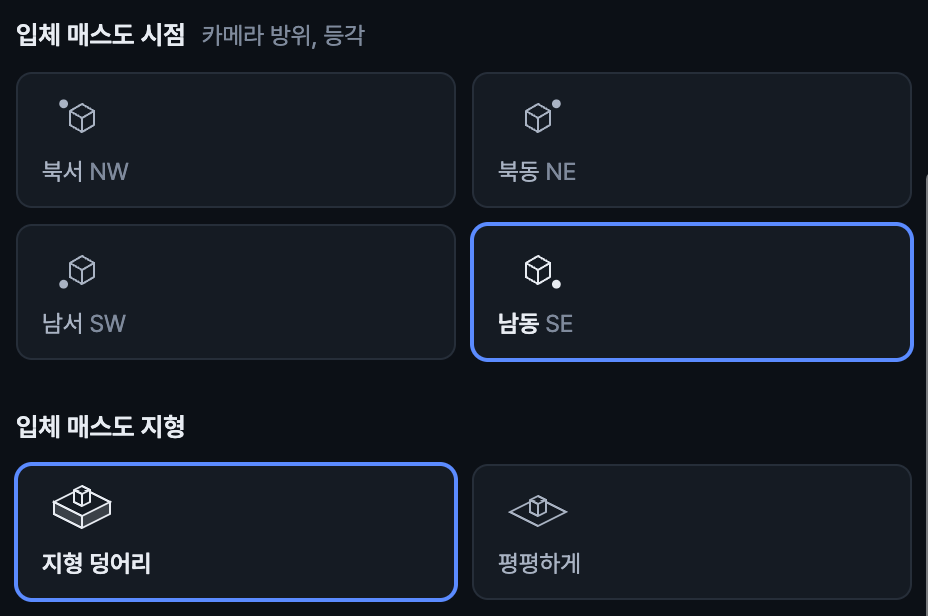
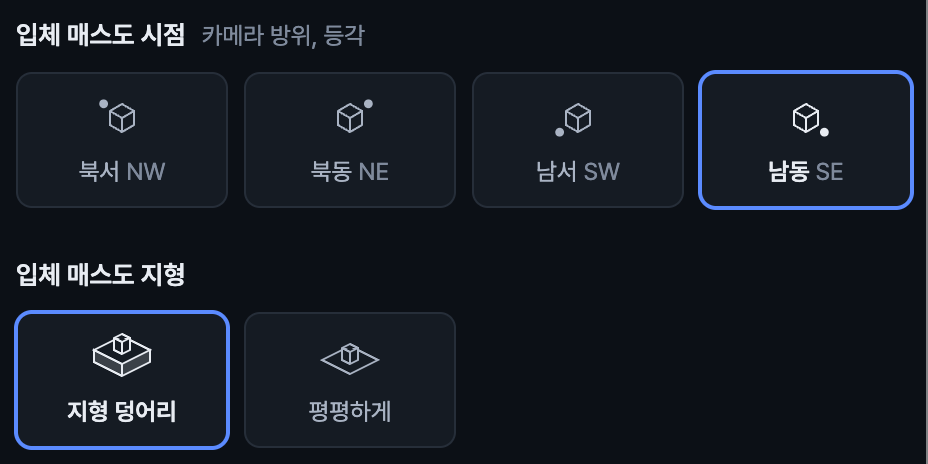
스타일 화면: 입체 매스도 시점을 한 줄 4칸으로, 지형 두 칸도 같은 크기

diff --git a/scripts/site_ui.html b/scripts/site_ui.html
@@ -1686,8 +1686,8 @@ function renderStyle(sec) {
     '<div style="height:8px"></div>' + cellsHtml(5, [[0.85, "작게", 11], [1, "보통", 14], [1.2, "크게", 17]].map(function (x) { return stCell("st_set", ' data-k="text_scale" data-v="' + x[0] + '"', +st.text_scale === x[0], '<span style="font-size:' + x[2] + 'px;line-height:1">' + tr("가") + "</span>" + tr(x[1]), true); })
       .concat([["sans", "고딕", ""], ["serif", "명조", "font-family:serif;"]].map(function (x) { return stCell("st_set", ' data-k="font" data-v="' + x[0] + '"', st.font === x[0], '<span style="' + x[2] + 'font-size:14px;line-height:1;font-weight:700">' + tr("가") + "</span>" + tr(x[1]), true); }))) +
     "<h3>" + tr("범위 밖 흐리기") + "</h3>" + cellsHtml(4, STYLE_CHOICES.fade_outside.map(function (x) { return stCell("st_set", ' data-k="fade_outside" data-v="' + x[0] + '"', +st.fade_outside === x[0], tr(x[1]), true); })) +
-    "<h3>" + tr("입체 매스도 시점") + ' <span class="sub">' + tr("카메라 방위, 등각") + "</span></h3>" + cellsHtml(2, STYLE_CHOICES.axo_view.map(function (x) { return stCell("st_set", ' data-k="axo_view" data-v="' + x[0] + '"', st.axo_view === x[0], axoIcon(x[2]) + "<span>" + tr(x[1]) + ' <span class="sub">' + x[0].toUpperCase() + "</span></span>"); })) +
-    "<h3>" + tr("입체 매스도 지형") + "</h3>" + cellsHtml(2, STYLE_CHOICES.axo_ground.map(function (x) { return stCell("st_set", ' data-k="axo_ground" data-v="' + x[0] + '"', (st.axo_ground || "block") === x[0], AXO_GROUND_ICONS[x[0]] + tr(x[1])); })) +
+    "<h3>" + tr("입체 매스도 시점") + ' <span class="sub">' + tr("카메라 방위, 등각") + "</span></h3>" + cellsHtml(4, STYLE_CHOICES.axo_view.map(function (x) { return stCell("st_set", ' data-k="axo_view" data-v="' + x[0] + '"', st.axo_view === x[0], axoIcon(x[2]) + "<span>" + tr(x[1]) + ' <span class="sub">' + x[0].toUpperCase() + "</span></span>", true); })) +
+    "<h3>" + tr("입체 매스도 지형") + "</h3>" + cellsHtml(4, STYLE_CHOICES.axo_ground.map(function (x) { return stCell("st_set", ' data-k="axo_ground" data-v="' + x[0] + '"', (st.axo_ground || "block") === x[0], AXO_GROUND_ICONS[x[0]] + tr(x[1]), true); })) +
     "<h3>" + tr("표제") + "</h3>" + '<input type="text" id="st_project" style="width:100%" maxlength="60" placeholder="' + tr("프로젝트명, 사무소") + '" aria-label="' + tr("프로젝트명") + '" value="' + esc(st.project || "") + '">' +
     '<div style="display:flex;gap:16px;flex-wrap:wrap"><label class="chk"><input type="checkbox" id="st_labels"' + (st.labels ? " checked" : "") + ">" + tr("지명과 역명") + "</label>" +
     (LANG === "en" ? "" : '<label class="chk"><input type="checkbox" id="st_subtitle"' + (st.subtitle_en ? " checked" : "") + ">" + tr("영문 부제") + "</label>") + "</div>";   // 영어 도면은 제목이 곧 영어 — 부제를 그리지 않는다(sheet_svg)
